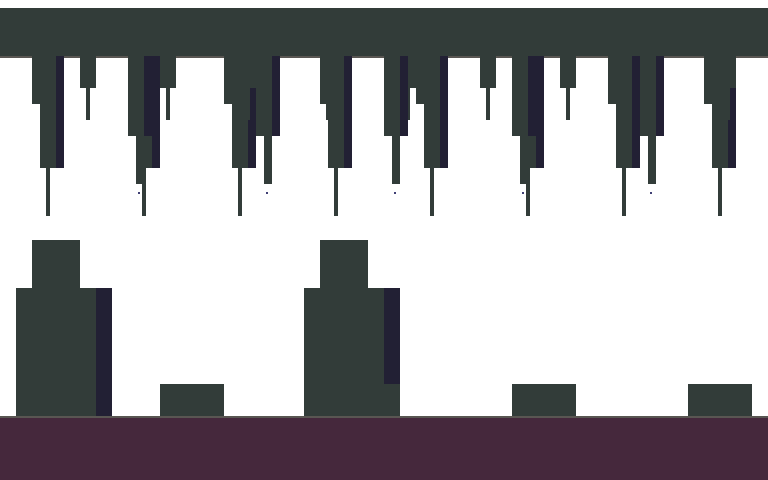
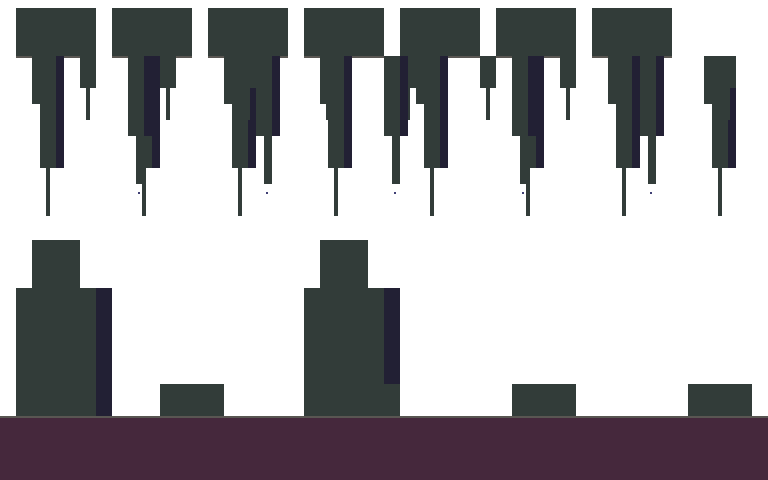
fix(dev): Hoehle mitte mit unterbrochener Decke (GEB7.2)

diff --git a/docs/sprints/aktiv/GEB7-hintergruende/GEB7.2-hoehle-mine.md b/docs/sprints/aktiv/GEB7-hintergruende/GEB7.2-hoehle-mine.md
@@ -64,5 +64,5 @@ Mit laufender Workbench stattdessen `check_run` (mit `checkout`). Keine manuelle
 - **AC-01 umgesetzt (Höhle, Mine):** sechs JSONs mit Vorlage, je `-16.png` und `-32.png`, kein 64/128; zweiter `task gebaeude`-Lauf byte-gleich, ältere PNGs md5-gleich (verglichen).
 - **AC-02 geprüft:** `TestKachelKlassen` grün für beide Biome; von den Erzeugern zusätzlich per PIL geprüft.
 - **AC-04 geprüft:** nur DB32, Materialnamen aus § 3 (`TestEchteVorlagen`); Luma Höhle 39,8 / 53,6 / 67,1, Mine 38,6 / 54,4 / 66,2 (`TestHintergrundStufen` grün); Bausteinarten in § 4.
-- Umsetzung im Team: je ein Agent pro Biom im Scratch-Ordner (Wegwerf-Skripte, JSON ist die Quelle). Hinweise der Erzeuger für 🧑: Höhle `mitte` hat durchgehende Decke (geschlossene Wirkung), Mine `mitte`/`nah` trennen sich nur schwach (beide Balken in `oiled-cedar`). Sicht nicht geprüft, gehört 🧑 (AC-08).
+- Umsetzung im Team: je ein Agent pro Biom im Scratch-Ordner (Wegwerf-Skripte, JSON ist die Quelle). Hinweise der Erzeuger für 🧑: Höhle `mitte`: die durchgehende Decke ist auf Wunsch von 🧑 in Abschnitte mit Lücken aufgelöst (Nachbesserung nach der Vorschau, andere PNGs md5-gleich), Mine `mitte`/`nah` trennen sich nur schwach (beide Balken in `oiled-cedar`). Sicht nicht geprüft, gehört 🧑 (AC-08).
 - `go test ./tools/gebaeude` grün; `task check` in GEB7.3 gemeinsam. Neue Tickets: keine.
